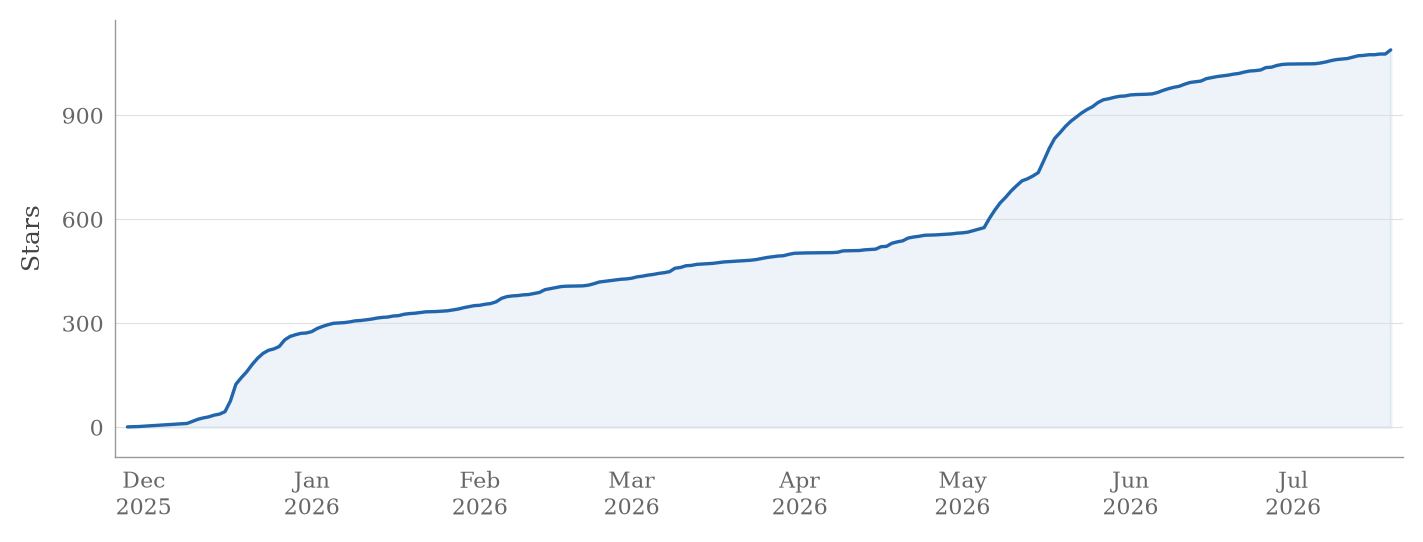
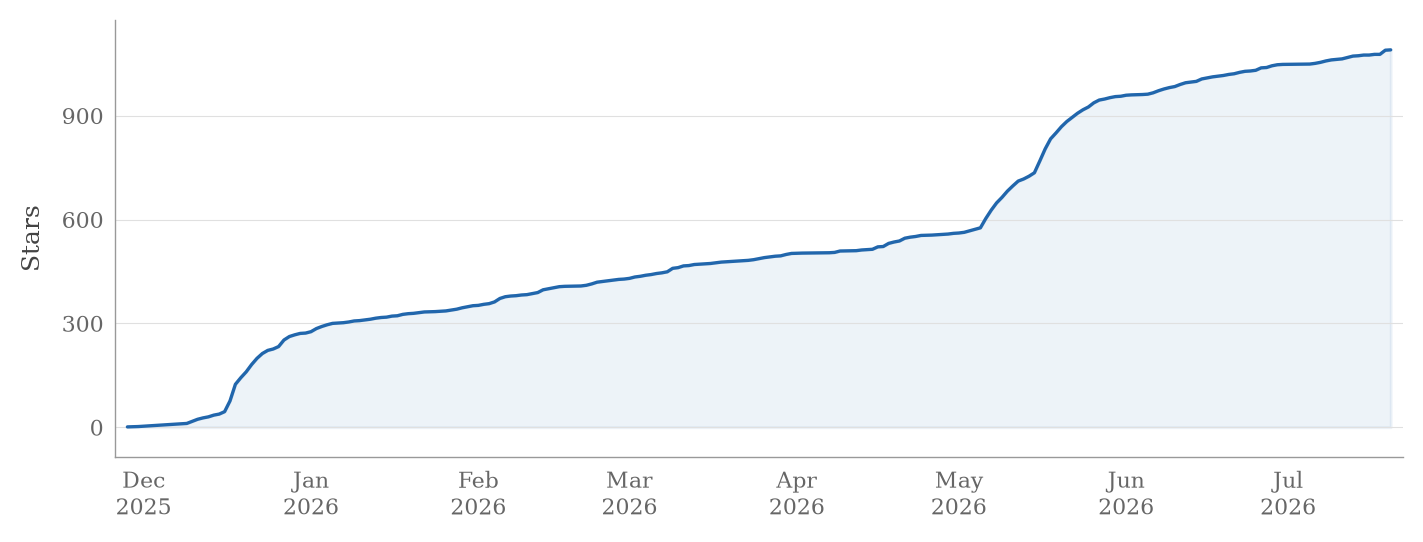
chore: update stars badge and chart

diff --git a/README.md b/README.md
@@ -8,7 +8,7 @@
 
 <p align="center">
   <a href="https://github.com/zimingttkx"><img src="https://img.shields.io/github/followers/zimingttkx?label=Follow&style=flat-square&logo=github" /></a>
-  <a href="https://github.com/zimingttkx?tab=repositories"><img src="https://img.shields.io/badge/Total%20Stars-1089-blue?style=flat-square" /></a>
+  <a href="https://github.com/zimingttkx?tab=repositories"><img src="https://img.shields.io/badge/Total%20Stars-1090-blue?style=flat-square" /></a>
   <a href="https://leetcode.cn/u/zimingttkx"><img src="https://img.shields.io/badge/LeetCode-zimingttkx-FFA116?style=flat-square&logo=leetcode&logoColor=white" /></a>
   <a href="mailto:2147514473@qq.com"><img src="https://img.shields.io/badge/Email-2147514473%40qq.com-EA4335?style=flat-square&logo=gmail&logoColor=white" /></a>
 </p>
